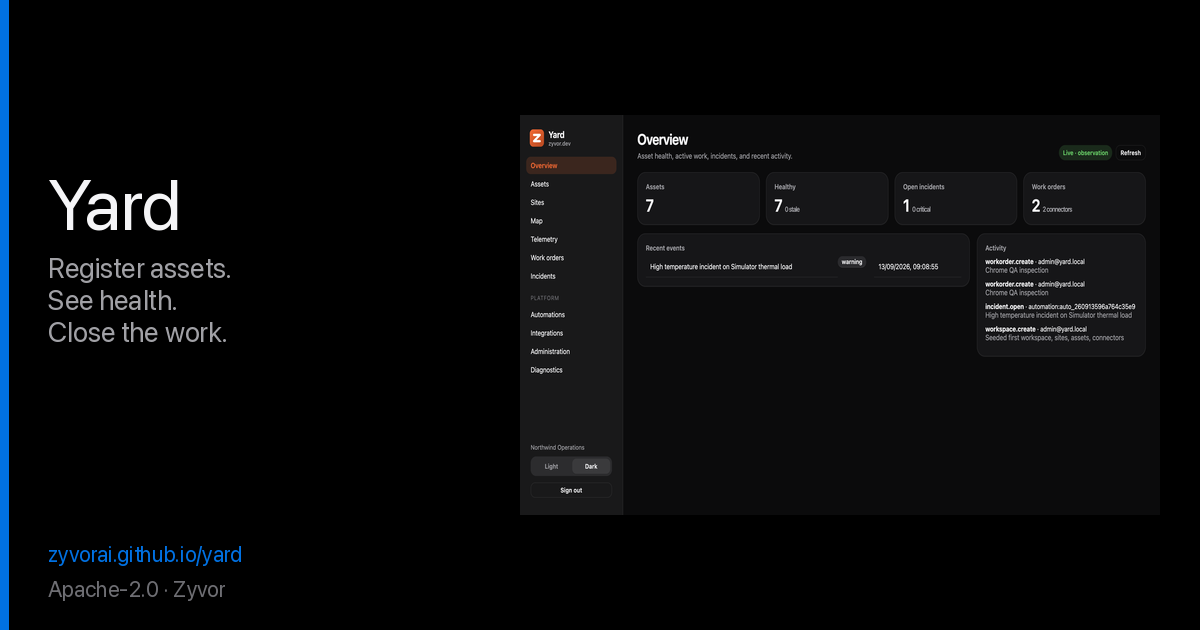
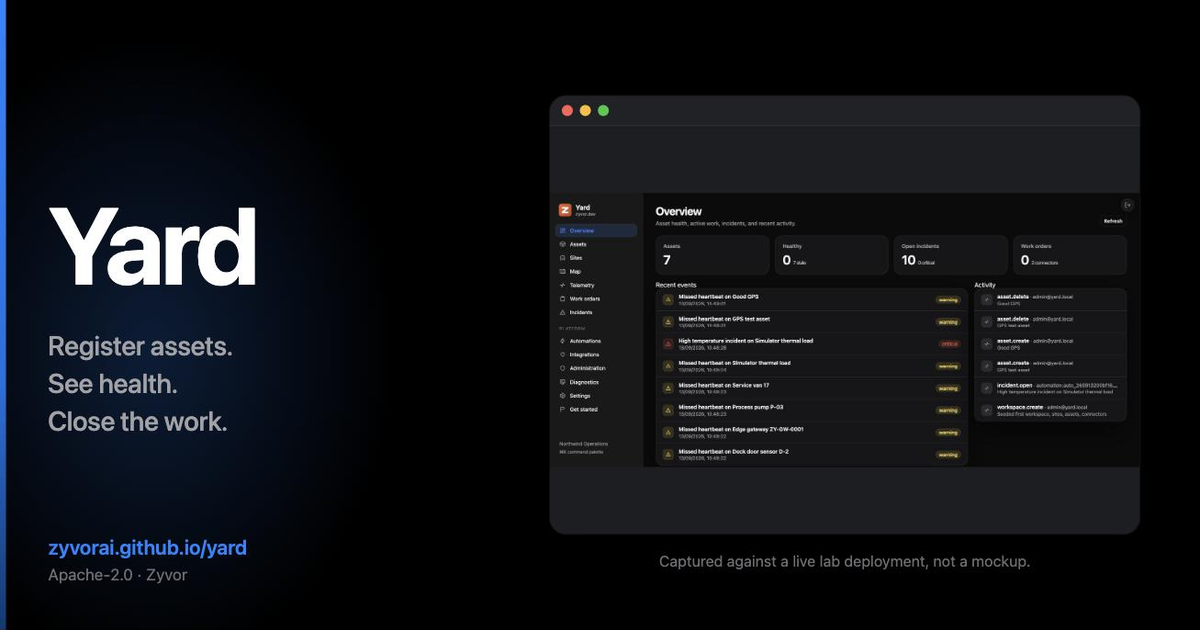
Make the README more attractive: refresh the hero image, add quick-nav
docs/social/yard-share-card.png (the README hero image and, via
docusaurus.config.ts, the og:image for every docs-site page) still
showed the pre-redesign console: orange active-nav pill, a labeled
"Sign out" row and a "Light/Dark" toggle in the sidebar footer, none
of which exist anymore. Regenerated it against the current UI (Apple
blue accent, colored nav icon-chips, floating top-right sign-out) by
compositing the real docs/ux/00-overview.png screenshot into the same
black-background, blue-edge-glow layout as before.

Also added Go/React stack badges, a one-line quick-nav row (Quick
start / Product tour / Compare / Full docs) under the docs link, and
a Compare row in the Docs and roadmap table — the /compare page built
earlier was previously only linked from the website, not the README.

Claude-Session: https://claude.ai/code/session_01DghaMDTHPLkMdm8pNAsTG2

diff --git a/README.md b/README.md
@@ -3,12 +3,16 @@
 [![CI](https://github.com/zyvorai/yard/actions/workflows/ci.yml/badge.svg)](https://github.com/zyvorai/yard/actions/workflows/ci.yml)
 [![License: Apache 2.0](https://img.shields.io/badge/License-Apache%202.0-blue.svg)](LICENSE)
 [![Docs](https://img.shields.io/badge/docs-zyvorai.github.io%2Fyard-0a84ff)](https://zyvorai.github.io/yard/)
+[![Go 1.22+](https://img.shields.io/badge/go-1.22%2B-00ADD8?logo=go&logoColor=white)](go.mod)
+[![React 18](https://img.shields.io/badge/react-18-0a84ff?logo=react&logoColor=white)](web/package.json)
 
 ![Yard — open asset and operations platform](docs/social/yard-share-card.png)
 
 **Open asset and operations platform — devices, sites, telemetry, incidents, and work orders. Zyvor connectors are optional. Yard runs alone.**
 
 📖 **[Read the full docs](https://zyvorai.github.io/yard/)** — quickstart, architecture, console features, API, security, and a product tour.
+
+**[Quick start](#quick-start)** · **[Product tour](https://zyvorai.github.io/yard/tour)** · **[Compare](https://zyvorai.github.io/yard/compare)** · **[Full docs](https://zyvorai.github.io/yard/)**
 
 Yard is a standalone registry for physical operations. A device is one asset kind; vehicles, machines, sensors, and equipment share the same model. Device Agent, Nodra, Fleet, and OTA plug in when you need them — you can install Yard without installing anything else in the Zyvor suite.
 
@@ -261,6 +265,7 @@ Or `make test`. Release gates cover tenant isolation, connector authentication, 
 | Resource | Link |
 | --- | --- |
 | Product docs | [zyvorai.github.io/yard](https://zyvorai.github.io/yard/) |
+| Compare | [Yard Core vs. Zyvor Enterprise](https://zyvorai.github.io/yard/compare) |
 | Feature catalog | [docs/ROADMAP.md](docs/ROADMAP.md) |
 | Connectors | [docs/CONNECTORS.md](docs/CONNECTORS.md) |
 | OpenAPI | [openapi.yaml](openapi.yaml) |
